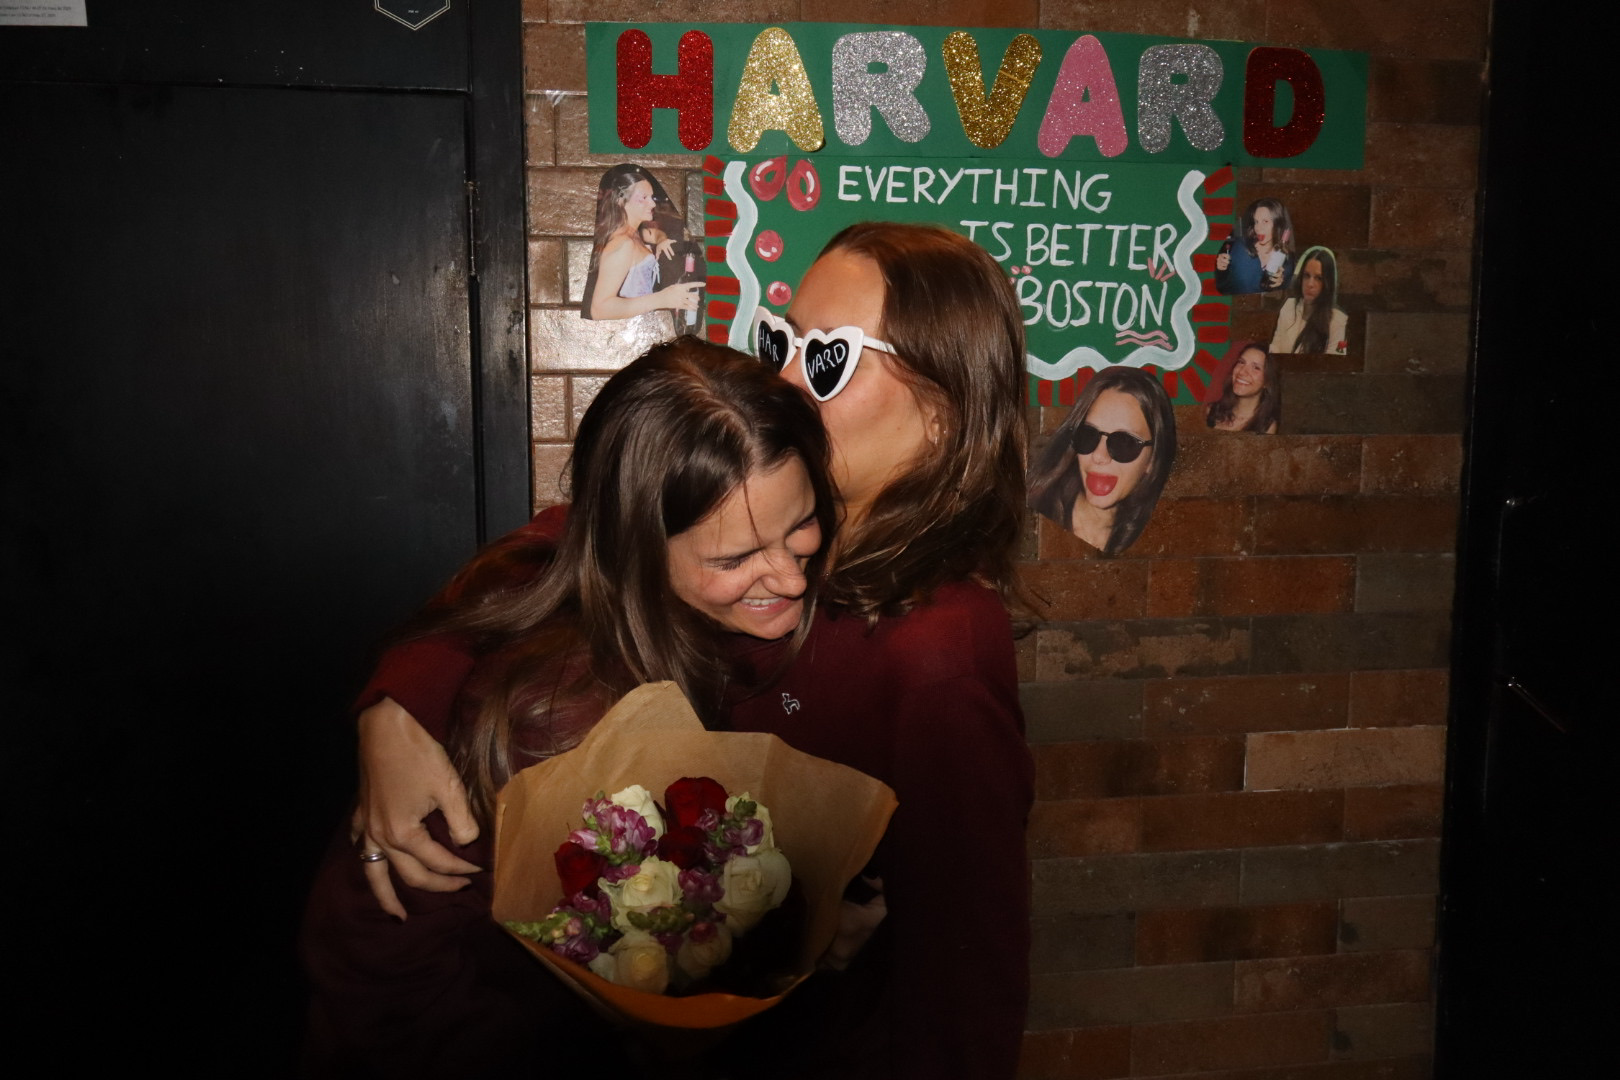
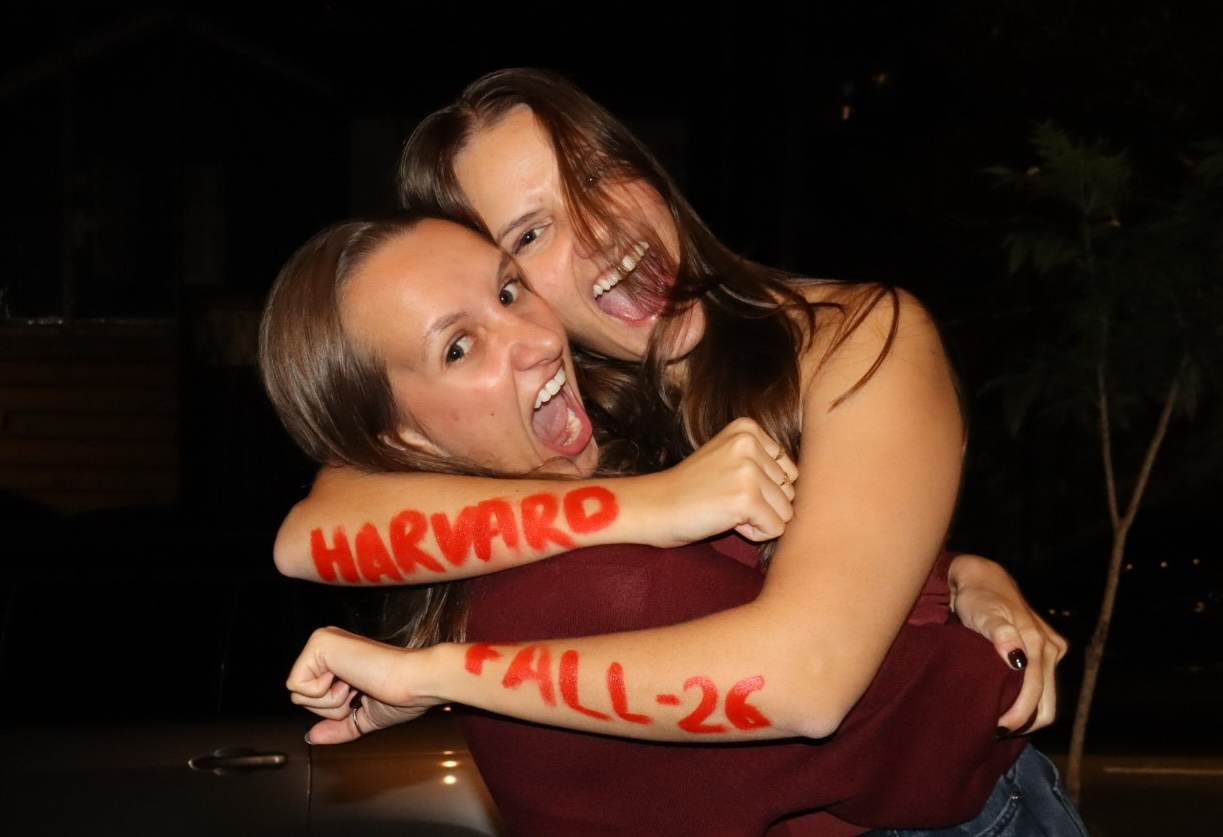
New pictures

diff --git a/src/data/content.ts b/src/data/content.ts
@@ -311,13 +311,14 @@ export const content = {
       title: 'A trajetória em imagens',
       subtitle: 'Cada foto é um capítulo: da sala de aula em São Paulo ao campus de Cambridge.',
       photos: [
+        { src: '/photos/infancia.jpg', caption: 'De farda, filha de militar' },
         { src: '/photos/insper.jpg', caption: 'Turma de Eng. da Computação no Insper, 6º semestre' },
         { src: '/photos/insper-ai.jpg', caption: 'Insper AI: evento presencial na QiTech' },
         { src: '/photos/estagio.jpg', caption: 'Segura.ai: parte do time no verão 2025' },
         { src: '/photos/chicago.jpg', caption: 'UChicago SISRM: primeira visita de campo' },
-        { src: '/photos/brasil-project.jpg', caption: 'Brasil Project: Harvard & MIT' },
-        { src: '/photos/harvard.jpg', caption: 'Minha irmã me abraçando com flores na comemoração' },
         { src: '/photos/premio.jpg', caption: 'Prêmio de Excelência em Eng. da Computação, comunidade bolsista Insper, 2025' },
+        { src: '/photos/brasil-project.jpg', caption: 'Brasil Project: Harvard & MIT' },
+        { src: '/photos/harvard.jpg', caption: 'Março 2026: A aprovação chegou' },
       ],
     },
 
@@ -659,13 +660,14 @@ export const content = {
       title: 'The journey in images',
       subtitle: 'Each photo is a chapter: from a classroom in São Paulo to the campus in Cambridge.',
       photos: [
+        { src: '/photos/infancia.jpg', caption: 'In uniform, military kid' },
         { src: '/photos/insper.jpg', caption: 'Computer Engineering class at Insper, 6th semester' },
         { src: '/photos/insper-ai.jpg', caption: 'Insper AI: in-person event at QiTech' },
         { src: '/photos/estagio.jpg', caption: 'Segura.ai: part of the summer 2025 team' },
         { src: '/photos/chicago.jpg', caption: 'UChicago SISRM: first field trip' },
-        { src: '/photos/brasil-project.jpg', caption: 'Brasil Project: Harvard & MIT' },
-        { src: '/photos/harvard.jpg', caption: 'My sister hugging me with flowers at my acceptance celebration' },
         { src: '/photos/premio.jpg', caption: 'Excellence Award in Computer Engineering, Insper scholarship community, 2025' },
+        { src: '/photos/brasil-project.jpg', caption: 'Brasil Project: Harvard & MIT' },
+        { src: '/photos/harvard.jpg', caption: 'March 2026: Received the Acceptance Letter' },
       ],
     },
 

diff --git a/src/components/HarvardSection.tsx b/src/components/HarvardSection.tsx
@@ -1,4 +1,3 @@
-import { useState } from 'react';
 import styled from 'styled-components';
 import { motion } from 'framer-motion';
 import {
@@ -19,15 +18,6 @@ const iconMap: Record<string, ReactNode> = {
   globe: <GlobeHemisphereWest size={26} weight="duotone" />,
   rocket: <Rocket size={26} weight="duotone" />,
 };
-
-function HarvardPhoto({ src }: { src: string }) {
-  const [hidden, setHidden] = useState(false);
-  return (
-    <PhotoSlot $hidden={hidden}>
-      <img src={src} alt="" onError={() => setHidden(true)} />
-    </PhotoSlot>
-  );
-}
 
 export default function HarvardSection() {
   const { lang } = useLanguage();
@@ -65,19 +55,6 @@ export default function HarvardSection() {
             </motion.div>
           ))}
         </PillarsGrid>
-
-        <motion.div
-          initial={{ opacity: 0, y: 20 }}
-          whileInView={{ opacity: 1, y: 0 }}
-          viewport={{ once: true, margin: '-60px' }}
-          transition={{ duration: 0.65, delay: 0.2 }}
-        >
-          <PhotoRow>
-            {[1, 2, 3].map(n => (
-              <HarvardPhoto key={n} src={`/photos/harvard-${n}.jpg`} />
-            ))}
-          </PhotoRow>
-        </motion.div>
 
         <motion.div
           initial={{ opacity: 0, y: 20 }}
@@ -198,30 +175,6 @@ const PillarDesc = styled.p`
   font-size: 13.5px;
   line-height: 1.7;
   color: rgba(255, 255, 255, 0.72);
-`;
-
-const PhotoRow = styled.div`
-  display: grid;
-  grid-template-columns: repeat(3, 1fr);
-  gap: 16px;
-
-  @media (max-width: ${({ theme }) => theme.bp.tablet}) {
-    grid-template-columns: 1fr;
-  }
-`;
-
-const PhotoSlot = styled.div<{ $hidden: boolean }>`
-  aspect-ratio: 4/3;
-  border-radius: 12px;
-  overflow: hidden;
-  display: ${({ $hidden }) => ($hidden ? 'none' : 'block')};
-
-  img {
-    width: 100%;
-    height: 100%;
-    object-fit: cover;
-    border-radius: 12px;
-  }
 `;
 
 const CTARow = styled.div`

diff --git a/src/components/PhotoCollage.tsx b/src/components/PhotoCollage.tsx
@@ -4,8 +4,8 @@ import { motion } from 'framer-motion';
 import { useLanguage } from '../context/LanguageContext';
 import { content } from '../data/content';
 
-const rotations = [-3, 1.5, -1, 2.5, -2, 1, -1.5];
-const emojis = ['🎓', '🤖', '💼', '🌆', '🌎', '🎉', '🏆'];
+const rotations = [-3, 1.5, -1, 2.5, -2, 1, -1.5, 2];
+const emojis = ['🎓', '🤖', '💼', '🌆', '🌎', '🇧🇷', '🏆', '🎉'];
 
 function PhotoImage({ src, alt, emoji }: { src: string; alt: string; emoji: string }) {
   const [errored, setErrored] = useState(false);
@@ -118,16 +118,8 @@ const Grid = styled.div`
     margin-top: 32px;
   }
 
-  /* center the 3-item second row: push 5th item to column 2 */
-  & > *:nth-child(5) {
-    grid-column: 2;
-  }
-
   @media (max-width: ${({ theme }) => theme.bp.desktop}) {
     grid-template-columns: repeat(2, 1fr);
-    & > *:nth-child(5) {
-      grid-column: auto;
-    }
     & > *:nth-child(even) {
       margin-top: 24px;
     }
